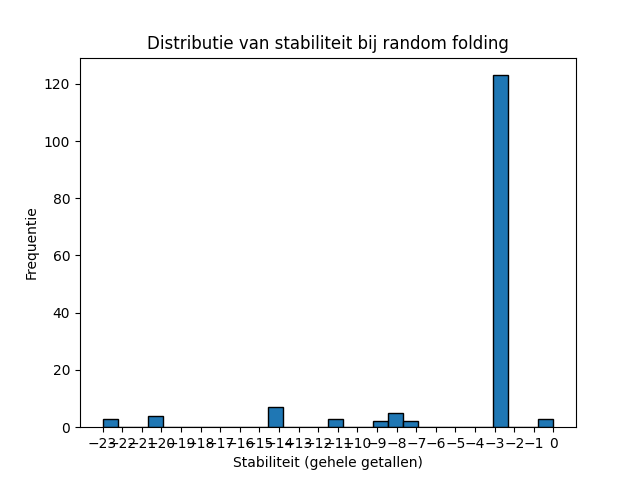
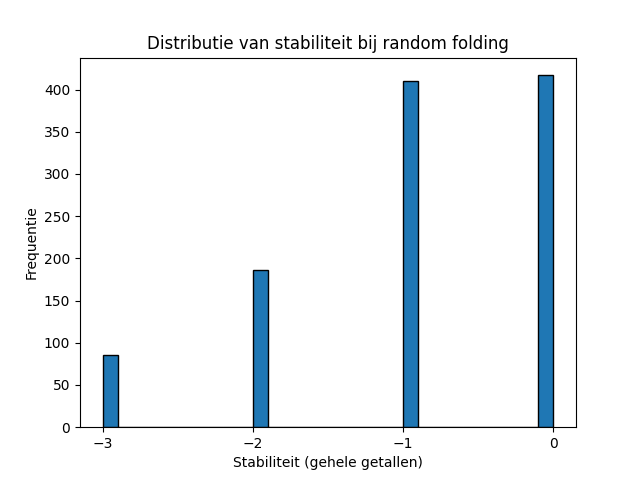
single runs gefixt

diff --git a/code/algorithms/Simulatedannealing.py b/code/algorithms/Simulatedannealing.py
@@ -98,8 +98,7 @@ class SimulatedAnnealing:
         current_temp = self.initial_temp
         iteration_count = 0
 
-        temperatures = []  # Track temperatures for plotting
-        iterations = []  # Track iteration counts for plotting
+        iteration_data = []# Track iteration counts for plotting
 
         while current_temp > self.min_temp:
             for attempt in range(self.max_attempts_per_temp):
@@ -145,17 +144,19 @@ class SimulatedAnnealing:
                         if current_stability < best_stability:
                             self.best_protein = copy.deepcopy(current_protein)
                             best_stability = current_stability
+            iteration = iteration_count
+            temp = current_temp
+            stability= current_stability
 
             # Update temperature and iteration tracking
-            temperatures.append(current_temp)
-            iterations.append(iteration_count)
+            iteration_data.append((iteration, temp, stability))
 
             # Reduce temperature based on the cooling rate
             current_temp *= self.cooling_rate
             iteration_count += 1
 
         # Return the best configuration found
-        return self.best_protein 
+        return self.best_protein , iteration_data
     
     def export_results(self, data: list[str]) -> None:
         """

diff --git a/helpers.py b/helpers.py
@@ -166,7 +166,7 @@ def run_algorithm(choice: int, protein, algorithm, filename):
     elif choice == 5:
         # Perform simulated annealing
         sa = SimulatedAnnealing(data, protein)
-        folded_protein = sa.execute()
+        folded_protein ,interation_data = sa.execute()
 
     return folded_protein
 
@@ -251,7 +251,7 @@ def run_algorithm_for_x_minutes(choice, protein, algorithm, filename, x_times):
 
     while datetime.now() < end_time:
         start_time = time.time()  # Starttijd van deze run
-        data = DataStoring(algorithm=algorithm)
+        data = DataStoring(algorithm=algorithm ,filename=filename)
 
         if choice == 4:  # Beam Search
             beam_search = BeamSearchProteinFolding(data, protein, beam_width=1)

diff --git a/main.py b/main.py
@@ -20,6 +20,7 @@ def main():
 
         # Vraag de gebruiker om de naam van het CSV-bestand
         filename = helpers.get_filename()
+        
 
         # Vraag of de gebruiker een enkele run wil of 30 minuten
         sort_run = helpers.get_sort_run()
@@ -28,7 +29,8 @@ def main():
             # Voer een enkele run uit
             folded_protein = helpers.run_algorithm(choice=choice, protein=protein, algorithm=algorithm, filename=filename)
 
-            sub_menu = helpers.get_sub_menu
+            sub_menu = helpers.get_sub_menu()
+            print("hallo")
 
             if sub_menu == "1":
                 # Stabiliteit tonen

diff --git a/code/visualisation/distribution.py b/code/visualisation/distribution.py
@@ -37,7 +37,6 @@ class Distribution:
                         try:
                             stability = float(row[1])  # Haal het tweede element (Stability) op
                             stabilities.append(stability)
-                            print(stability)
                         except ValueError:
                             continue  # Sla rijen over met ongeldige waarden
             
